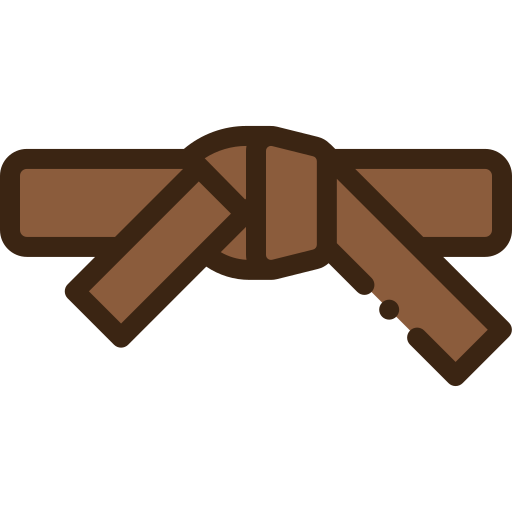
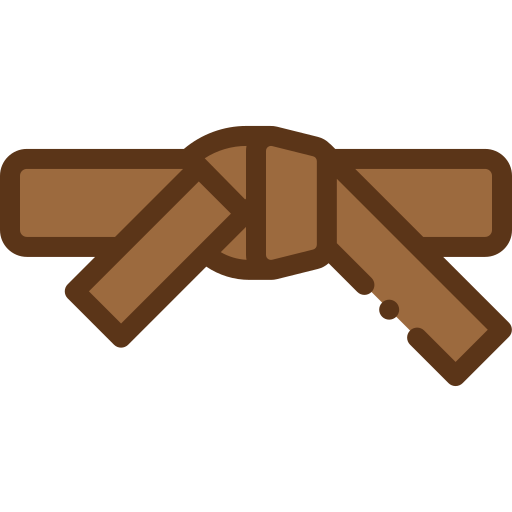
edit belts png

Changed region(s): [[0.0, 0.2188, 1.0, 0.75]]

diff --git a/src/components/ui/sections/BestPractices.jsx b/src/components/ui/sections/BestPractices.jsx
@@ -27,7 +27,7 @@ export default function BestPractices({
 						<div className="flex items-center space-x-3">
 							{rule.icon}
 							<h3 className="text-base font-bold text-gray-900">
-								{rule.title}
+								{rule.section}
 							</h3>
 						</div>
 

diff --git a/src/config/belts-config.js b/src/config/belts-config.js
@@ -72,7 +72,7 @@ export const BELTS_CONFIG = {
 	practice: {
 		title: "FIGHT",
 		href: "/practice",
-		image: "/karate.png",
+		image: "/practice.png",
 		colors: {
 			theme: "#DC2626",
 			mobileHoverBg: "rgb(254 242 242)",

diff --git a/COLORS.md b/COLORS.md
@@ -1,0 +1,29 @@
+Colors des belts en svg :
+
+white: 
+    fill: 
+    outline:
+
+yellow: 
+    fill: #F2D12A
+    outline: #9A7A00
+
+orange: 
+    fill: #F2993A
+    outline: #C46A1A
+
+green: 
+    fill: #4FAE6A
+    outline: #1F6F3A
+
+blue: 
+    fill: #3B7FD6
+    outline: #1A4F8F
+
+brown: 
+    fill: #9C6A3E
+    outline: #5B3518
+
+black: 
+    fill: 
+    outline:

diff --git a/TODO.md b/TODO.md
@@ -13,3 +13,10 @@ hover précédent suivant
 
 
 svg belt sur flaticon
+recenser couleur des flatcons pour mettre àjour fichier data en concordence avec les svg.
+
+ENUM('en_cours', 'rendu', 'en_retard') brown coouleurs
+DEFAULT 'en coours' couleur
+
+Cursor pointer dans les accordeons
+Navbar proportions et effets
